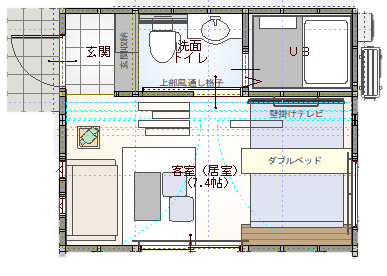
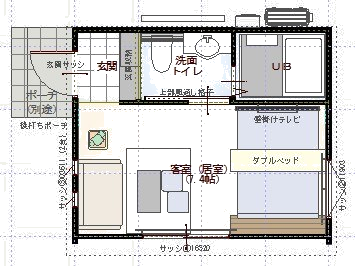
平面図の白背景を透過にして生成り地に溶け込ませる
- 平面図17点の白い紙地を透過PNG化（しきい値236・線や色付きの部屋は残す）
- 組合せプランの白カード・枠線を撤去して背景に直置き（先方指摘「背景が白くてダサい」）
- ただし暗い地（Flat＝黒 / 折畳み＝濃緑 / 基本本体＝青緑パネル）は図面の線が見えなくなるため白地のまま

diff --git a/data/site-content.ts b/data/site-content.ts
@@ -256,32 +256,32 @@ export const combos = {
     {
       label: 'Wing居住用',
       badge: '#5a3e2b',
-      items: [{ image: '/images/plan/wing-hotel-ld.jpg', alt: 'シャワー・トイレと LD7 帖を収めた Wing 居住用の平面図' }],
+      items: [{ image: '/images/plan/wing-hotel-ld.png', alt: 'シャワー・トイレと LD7 帖を収めた Wing 居住用の平面図' }],
     },
     {
       label: 'Flatプラス居室例',
       badge: '#1d1a16',
-      items: [{ image: '/images/plan/flat-two-rooms.jpg', alt: 'フラットの食堂 3 帖と洋室 3 帖の平面図' }],
+      items: [{ image: '/images/plan/flat-two-rooms.png', alt: 'フラットの食堂 3 帖と洋室 3 帖の平面図' }],
     },
   ],
   rightGroups: [
     {
       label: 'Wingホテル用',
       badge: '#5a3e2b',
-      items: [{ image: '/images/plan/wing-hotel-guest.jpg', alt: '客室（居室）7.4 帖とユニットバスを収めた Wing ホテル用の平面図' }],
+      items: [{ image: '/images/plan/wing-hotel-guest.png', alt: '客室（居室）7.4 帖とユニットバスを収めた Wing ホテル用の平面図' }],
     },
     {
       label: 'Wing居室プラン例',
       badge: '#5a3e2b',
-      items: [{ image: '/images/plan/wing-two-rooms.jpg', alt: '洋室 4.9 帖×2 とウォークインクローゼットを収めた Wing の平面図' }],
+      items: [{ image: '/images/plan/wing-two-rooms.png', alt: '洋室 4.9 帖×2 とウォークインクローゼットを収めた Wing の平面図' }],
     },
     {
       label: 'BOX水回りキット例',
       badge: '#0b4f66',
       wide: true,
       items: [
-        { image: '/images/plan/box-water-kit-basic.jpg', alt: 'ガス給湯器・エアコン室外機付き BOX 水回りキットの平面図' },
-        { image: '/images/plan/box-water-kit.jpg', alt: 'キッチン 3.9 帖・トイレ・ユニットバスを収めた BOX 水回りキットの平面図' },
+        { image: '/images/plan/box-water-kit-basic.png', alt: 'ガス給湯器・エアコン室外機付き BOX 水回りキットの平面図' },
+        { image: '/images/plan/box-water-kit.png', alt: 'キッチン 3.9 帖・トイレ・ユニットバスを収めた BOX 水回りキットの平面図' },
       ],
     },
   ],
@@ -291,10 +291,10 @@ export const combos = {
     note: '※BOX及びFlatは、単体で10㎡以内となる商品は確認申請が不要となります。',
     color: '#414537',
     items: [
-      { image: '/images/plan/box-wing-living-combo.jpg', alt: 'BOX 水回りキットと Wing のリビング・洋室を組み合わせた平面図' },
-      { image: '/images/plan/wing-box-combo.jpg', alt: 'BOX 水回りキットと Wing 8.7 帖を組み合わせた平面図' },
-      { image: '/images/plan/flat-wing-2ldk.jpg', alt: 'フラットと Wing を組み合わせた 2LDK の平面図' },
-      { image: '/images/plan/box-wing-rooms-combo.jpg', alt: 'BOX 水回りキットと Wing の洋室2部屋を組み合わせた平面図' },
+      { image: '/images/plan/box-wing-living-combo.png', alt: 'BOX 水回りキットと Wing のリビング・洋室を組み合わせた平面図' },
+      { image: '/images/plan/wing-box-combo.png', alt: 'BOX 水回りキットと Wing 8.7 帖を組み合わせた平面図' },
+      { image: '/images/plan/flat-wing-2ldk.png', alt: 'フラットと Wing を組み合わせた 2LDK の平面図' },
+      { image: '/images/plan/box-wing-rooms-combo.png', alt: 'BOX 水回りキットと Wing の洋室2部屋を組み合わせた平面図' },
     ],
   },
 };

diff --git a/components/sections/combo-plans.tsx b/components/sections/combo-plans.tsx
@@ -21,8 +21,8 @@ function PlanGroup({ g }: { g: Group }) {
       </p>
       <div className={`mt-1.5 grid gap-2 ${g.items.length > 1 && !g.panel ? 'grid-cols-2' : 'grid-cols-1'} ${g.panel ? 'bg-[#0b4f66] p-2' : ''}`}>
         {g.items.map((item) => (
-          <figure key={item.image} className="border border-brown/15 bg-white">
-            <div className="relative aspect-[4/3] w-full overflow-hidden">
+          <figure key={item.image}>
+            <div className={`relative aspect-[4/3] w-full overflow-hidden ${g.panel ? 'bg-white' : ''}`}>
               <Image src={item.image} alt={item.alt} fill sizes="(min-width: 1024px) 20vw, 45vw" className="object-contain p-1" />
             </div>
           </figure>
@@ -76,7 +76,7 @@ export function ComboPlansSection() {
           {[combos.comboBand.items.slice(0, 2), combos.comboBand.items.slice(2, 4)].map((pair, i) => (
             <Reveal key={i} variant="image" className="grid grid-cols-2 gap-3">
               {pair.map((item) => (
-                <figure key={item.image} className="border border-brown/15 bg-white">
+                <figure key={item.image}>
                   <div className="relative aspect-[4/5] w-full overflow-hidden">
                     <Image src={item.image} alt={item.alt} fill sizes="(min-width: 1024px) 22vw, 45vw" className="object-contain p-1" />
                   </div>
